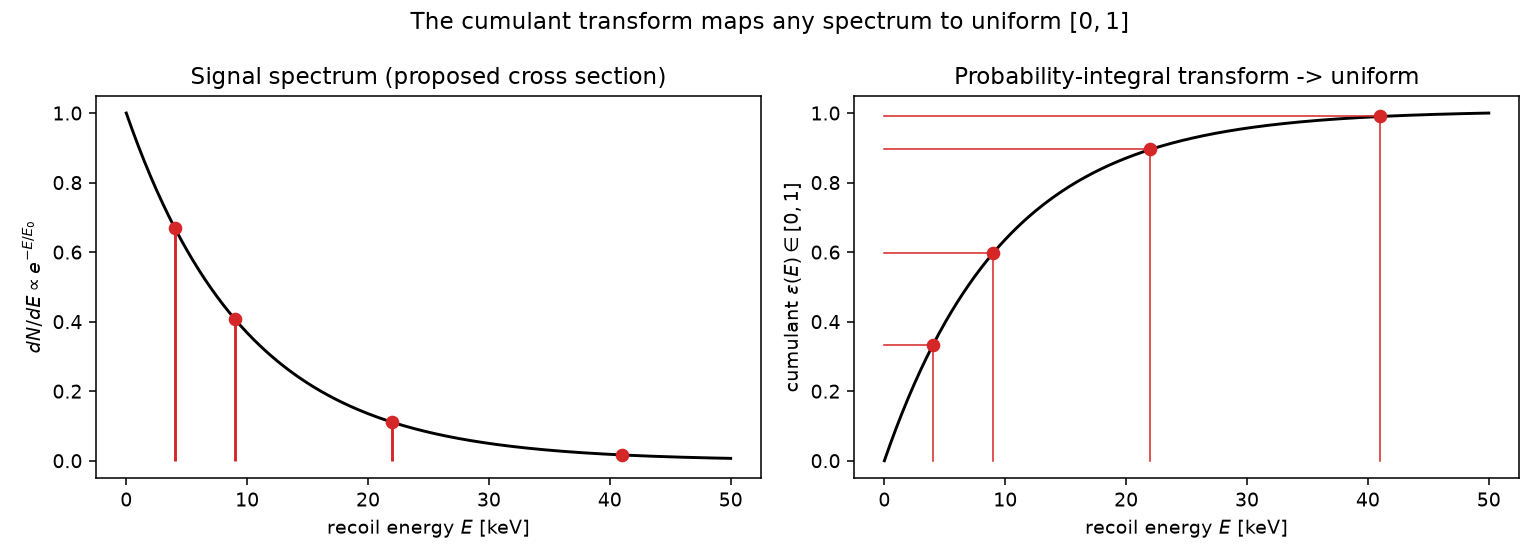
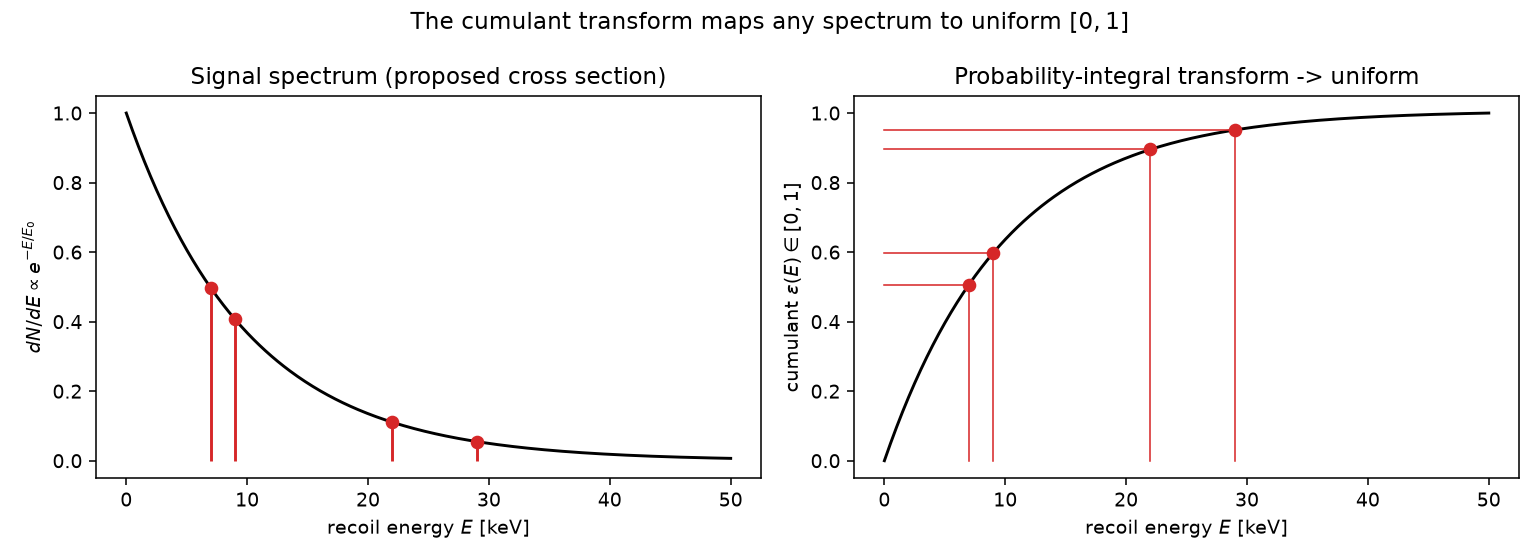
Make the worked example's gaps visually distinct
The toy cumulants {0.33, 0.60, 0.90, 0.98} gave three nearly equal gaps, so
the k-largest schematic did not show which interval is which. New energies
{7, 9, 22, 29} keV map to cumulants {0.51, 0.60, 0.90, 0.95}: the max gap
(0 -> 0.51) dominates and each k-arrow ends at a distinct event. Updated
EXPLANATION.md and regenerated both explanatory figures.

diff --git a/reproduce_figures.py b/reproduce_figures.py
@@ -370,7 +370,9 @@ def explanatory_figures(seed: int) -> None:
     def cdf(e):  # normalized exponential CDF -> uniform [0, 1]
         return (1.0 - np.exp(-e / e0)) / norm
 
-    events_E = np.array([4.0, 9.0, 22.0, 41.0])
+    # Chosen so the cumulants (~0.51, 0.60, 0.90, 0.95) give clearly distinct
+    # gaps in the k-largest schematic.
+    events_E = np.array([7.0, 9.0, 22.0, 29.0])
     events_u = cdf(events_E)
 
     fig, (axL, axR) = plt.subplots(1, 2, figsize=(11, 4))

diff --git a/EXPLANATION.md b/EXPLANATION.md
@@ -129,10 +129,11 @@ $$
 \epsilon(E)=\frac{1-e^{-E/E_0}}{1-e^{-E_\text{max}/E_0}} .
 $$
 
-Four toy events at $E=\{4,9,22,41\}$ keV map to cumulants
-$\epsilon\approx\{0.33,0.60,0.90,0.98\}$. Prepend the range boundary $0$ and
-append $1$, giving the point list $\{0,\,0.33,\,0.60,\,0.90,\,0.98,\,1\}$ on the
-unit interval. From here on we never need the spectrum again — only this list.
+Four toy events at $E=\{7,9,22,29\}$ keV map to cumulants
+$\epsilon\approx\{0.51,0.60,0.90,0.95\}$. Prepend the range boundary $0$ and
+append $1$, giving the point list $\{0,\,0.51,\,0.60,\,0.90,\,0.95,\,1\}$ on the
+unit interval — the maximum gap is clearly the empty stretch from $0$ to $0.51$.
+From here on we never need the spectrum again — only this list.
 
 In code: the transform is `cumulant_points(events, spectrum_cdf)` in
 `intervals.py`, which sorts, applies the CDF, and adds the $0$ and $1$